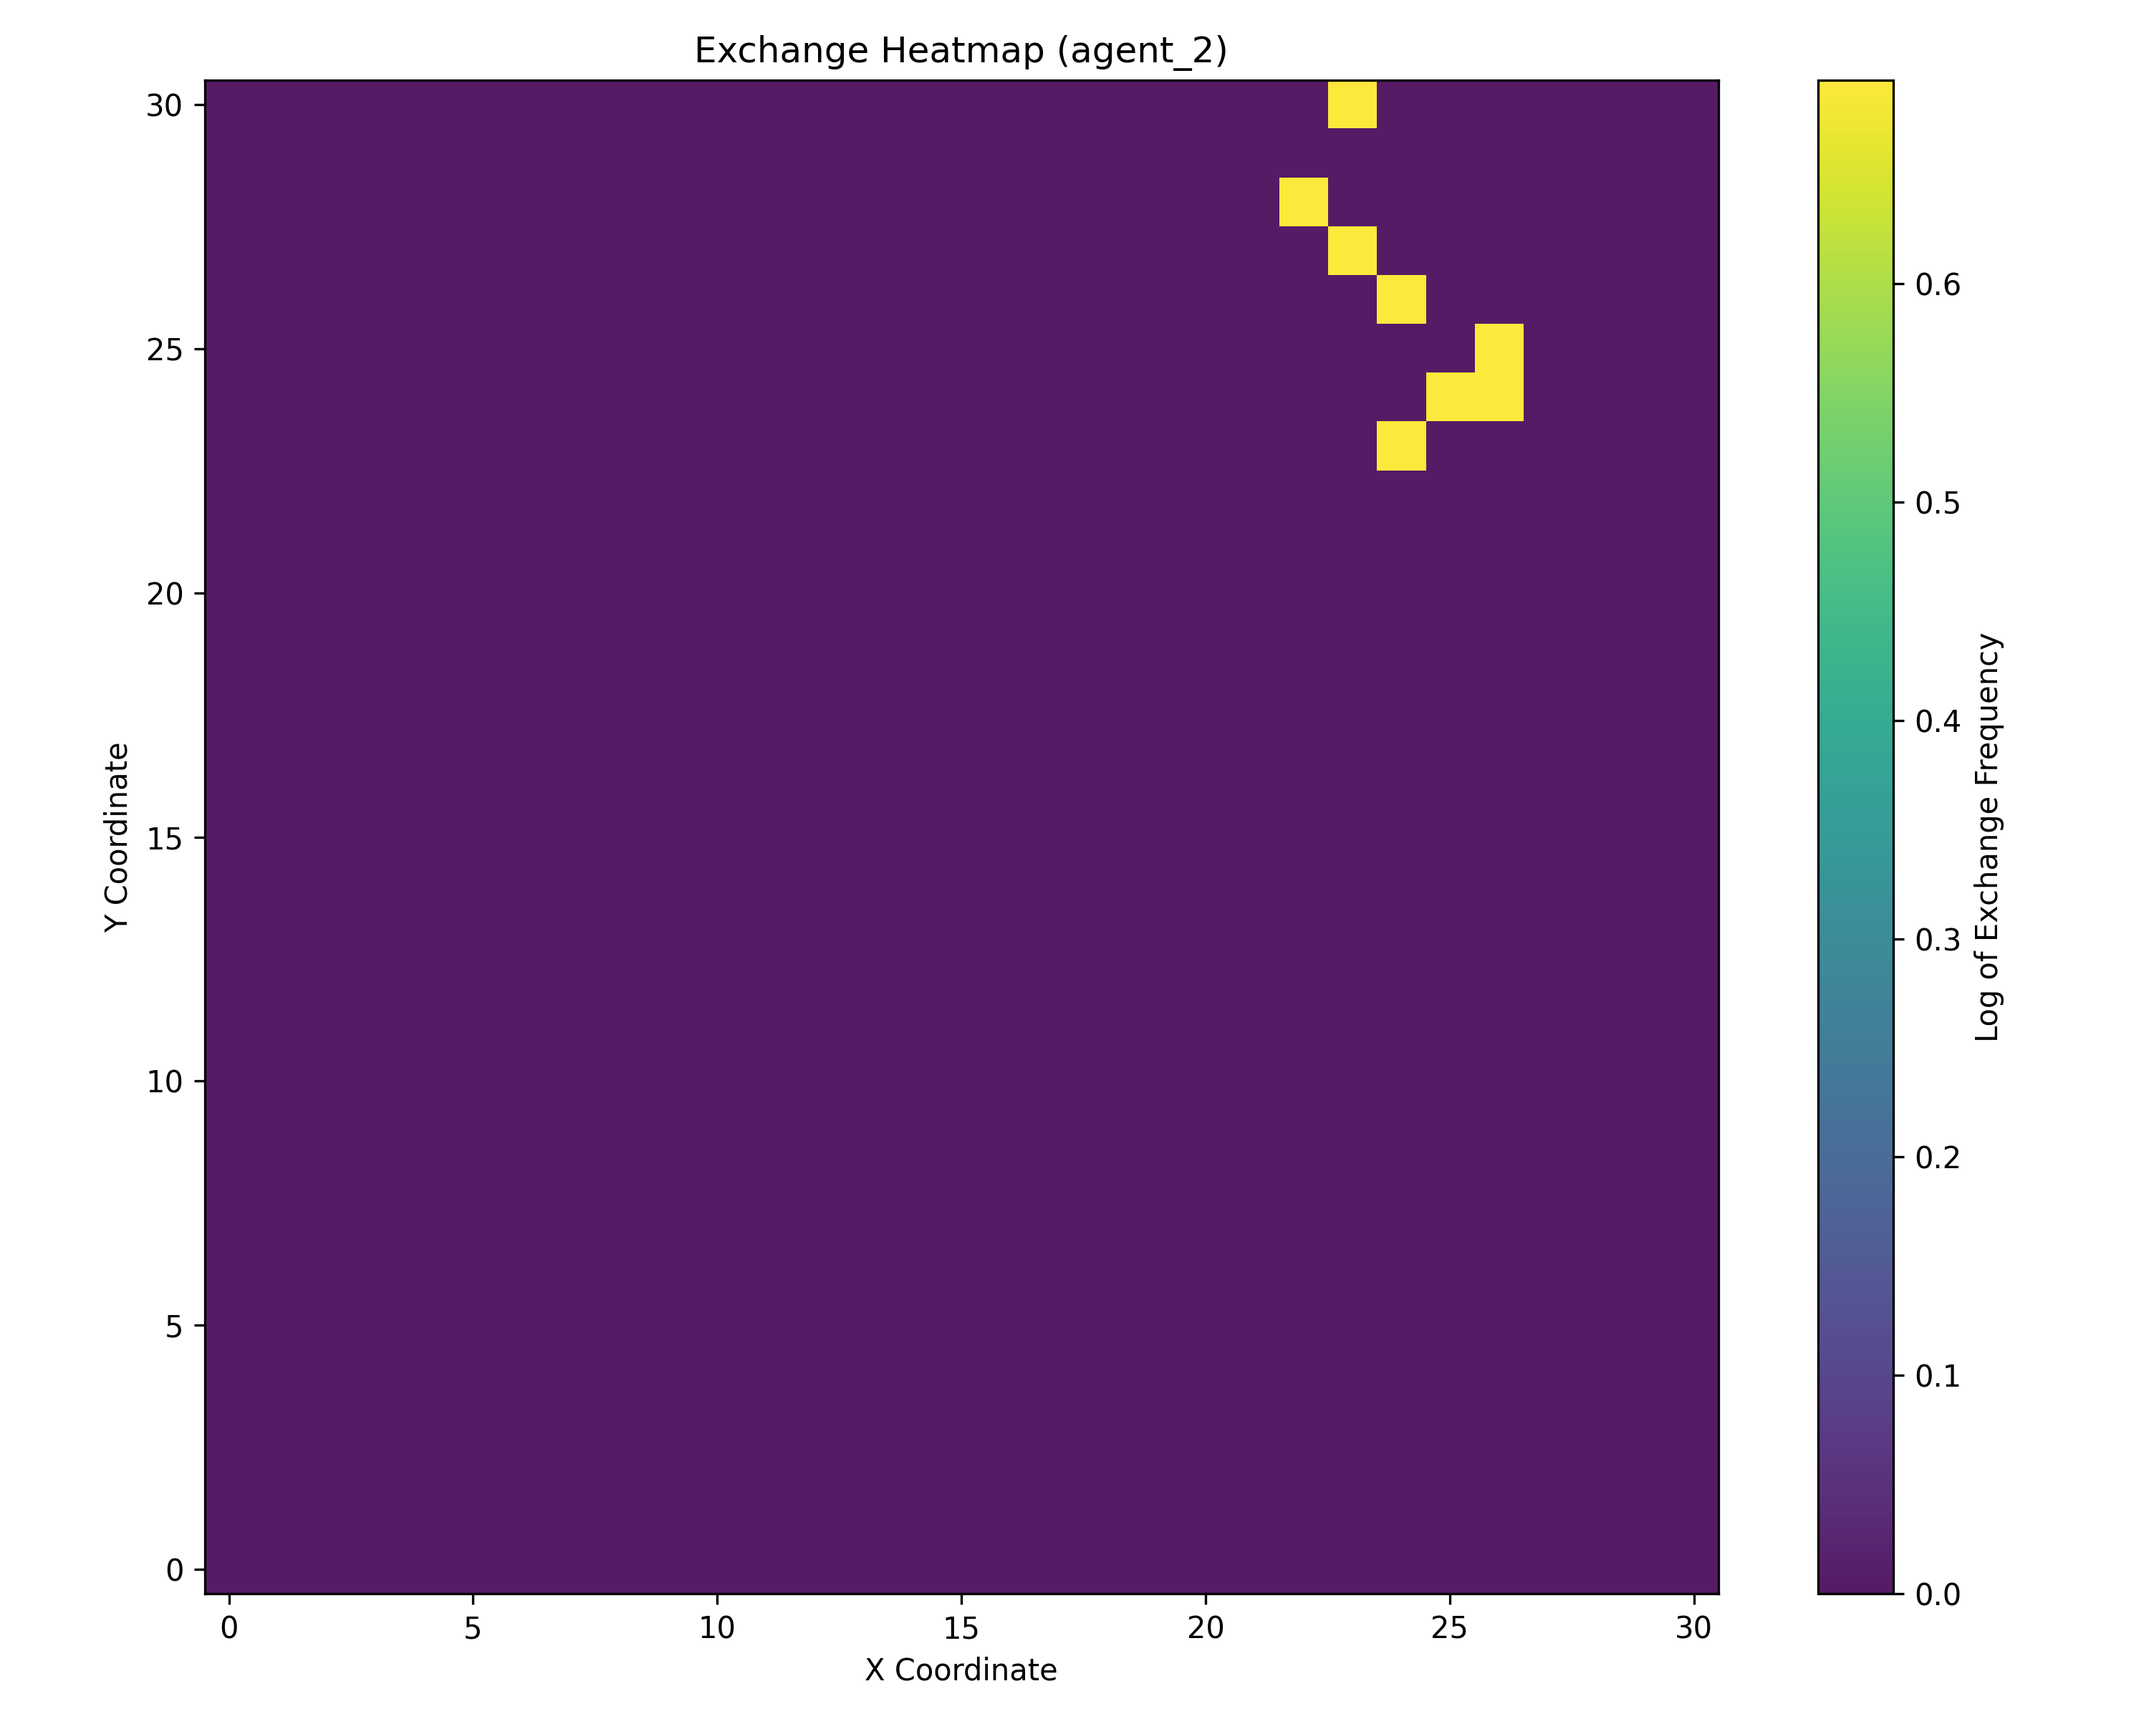
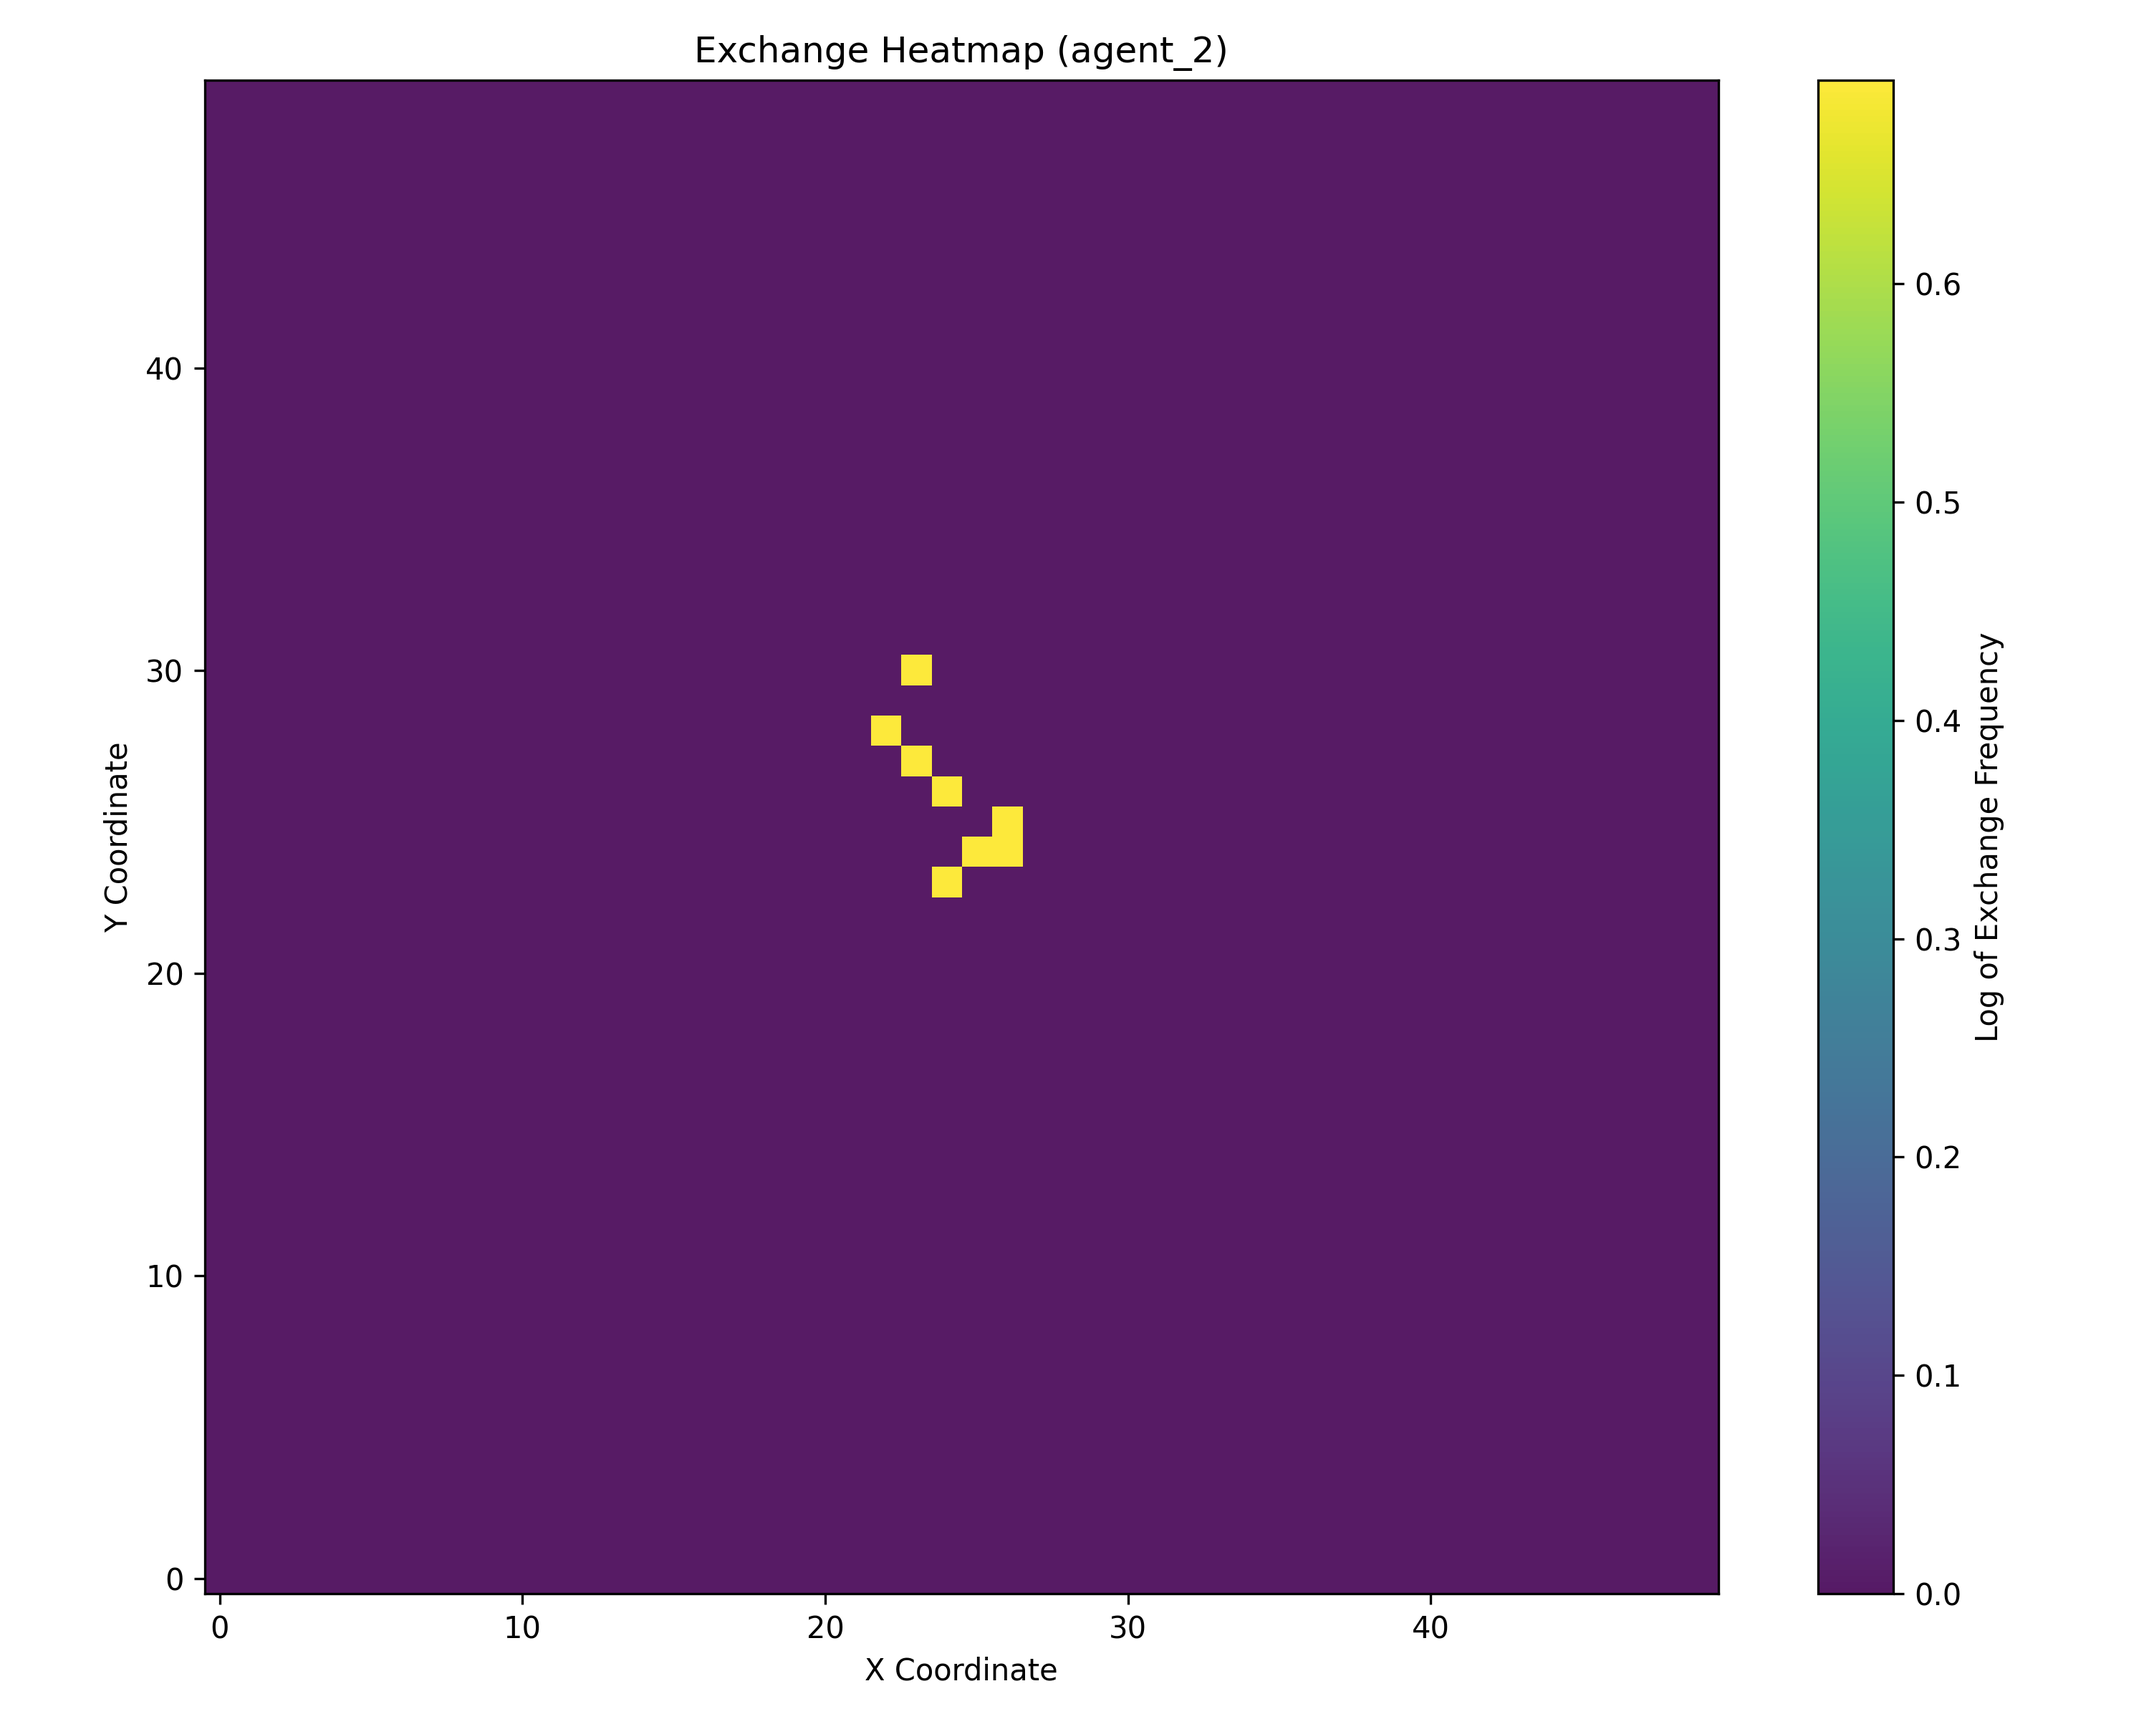
System working: heatmaps display full env size

diff --git a/Swarm_Petting_Zoo/MultiAgentForaging/Env/run_analysis.py b/Swarm_Petting_Zoo/MultiAgentForaging/Env/run_analysis.py
@@ -1,0 +1,62 @@
+import pandas as pd
+import numpy as np
+import matplotlib.pyplot as plt
+from foraging_config import ForagingConfig 
+# Import or define your heatmap functions
+from data_analysis import (
+    generate_agent_activity_heatmap,
+    generate_exchange_heatmap_for_agent,
+    overlay_exchanges_on_heatmap,
+)
+
+def run_analysis(log_filepath):
+    """
+    Run analysis on pre-existing simulation logs to generate various heatmaps.
+
+    Parameters:
+    - log_filepath (str): Path to the simulation log file (CSV).
+    """
+    # Load the data
+    simulation_logs = pd.read_csv(log_filepath)
+    print("Simulation logs loaded successfully.")
+
+    # Separate rows by type
+    agents = simulation_logs[simulation_logs['row_type'] == "agent"]
+    exchanges = simulation_logs[simulation_logs['row_type'] == "exchange"]
+
+    # Parse agent locations
+    agents['x'], agents['y'] = zip(*agents['location']
+        .str.strip("[]")
+        .str.split()
+        .map(lambda xy: (int(xy[0]), int(xy[1])) if len(xy) == 2 else (None, None))
+    )
+    
+    # Ensure exchange coordinates are integers
+    exchanges['x'] = exchanges['x'].astype(float).astype(int)
+    exchanges['y'] = exchanges['y'].astype(float).astype(int)
+    
+    # Define the environment grid size
+    grid_size = (ForagingConfig.size)
+
+    # Generate agent activity heatmap
+    print("Generating agent activity heatmap...")
+    #generate_agent_activity_heatmap(agents, filename="agent_activity_heatmap.png", grid_size=grid_size)
+
+    # Generate global exchange heatmap
+    print("Generating global exchange heatmap...")
+    generate_exchange_heatmap_for_agent(exchange_data=exchanges, filename="global_exchange_heatmap.png",grid_size=grid_size)
+
+    # Generate heatmaps for each agent's exchanges
+    print("Generating exchange heatmaps for each agent...")
+    for agent in exchanges['agent_id'].dropna().unique():  # Filter out rows with missing 'agent_id'
+        filename = f"{agent}_exchange_heatmap.png"
+        generate_exchange_heatmap_for_agent(exchange_data=exchanges, agent_id=agent, filename=filename, grid_size=grid_size)
+
+    print("Analysis complete!")
+
+if __name__ == "__main__":
+    # Path to the simulation log file
+    log_file = "simulation_logs.csv"  # Update this to the actual path of your log file
+    
+    # Run the analysis
+    run_analysis(log_file)

diff --git a/Swarm_Petting_Zoo/MultiAgentForaging/Env/data_analysis.py b/Swarm_Petting_Zoo/MultiAgentForaging/Env/data_analysis.py
@@ -3,16 +3,16 @@ import numpy as np
 import matplotlib.pyplot as plt
 import pandas as pd
 
-def generate_agent_activity_heatmap(log_data, grid_size=None, normalize=True, filename=None, agent_id=None):
+def generate_agent_activity_heatmap(log_data, normalize=True, filename=None, agent_id=None, grid_size=None):
     """
     Generate and plot a heatmap of agent activity from simulation logs.
 
     Parameters:
     - log_data (pd.DataFrame): The simulation data containing 'x' and 'y' columns for agent locations.
-    - grid_size (int): The size of the grid. If None, it will be determined from the data.
     - normalize (bool): If True, normalize the heatmap using a logarithmic scale.
     - filename (str): If provided, saves the heatmap as an image file.
     - agent_id (str): If provided, filters the log data for the specified agent.
+    - grid_size (int): The size of the grid. If None, it will be determined from the data.
     """
     # Filter for a specific agent if agent_id is provided
     if agent_id:
@@ -144,7 +144,7 @@ def overlay_exchanges_on_heatmap(agent_data, exchange_data, agent_id=None, filen
     # Show the plot
     plt.show()
     
-def generate_exchange_heatmap_for_agent(exchange_data, agent_id=None, filename=None):
+def generate_exchange_heatmap_for_agent(exchange_data, agent_id=None, filename=None, grid_size=None):
     """
     Generate a heatmap of only the exchange locations for a specific agent or all agents.
 
@@ -157,9 +157,11 @@ def generate_exchange_heatmap_for_agent(exchange_data, agent_id=None, filename=N
     if agent_id:
         exchange_data = exchange_data[exchange_data['agent_id'] == agent_id]
 
+
+    # Unpack grid size
+    heatmap_rows, heatmap_cols = (grid_size , grid_size)
+    exchange_heatmap = np.zeros((heatmap_rows, heatmap_cols))
     # Create exchange heatmap
-    grid_size = max(exchange_data['x'].max(), exchange_data['y'].max()) + 1
-    exchange_heatmap = np.zeros((grid_size, grid_size))
     for _, row in exchange_data.iterrows():
         exchange_heatmap[int(row['y']), int(row['x'])] += 1  # Note (y, x) indexing for heatmaps
 

diff --git a/Swarm_Petting_Zoo/MultiAgentForaging/Env/test_with_markets.py b/Swarm_Petting_Zoo/MultiAgentForaging/Env/test_with_markets.py
@@ -38,45 +38,8 @@ def test_markets(step_limit=5):
         env.render()
         #time.sleep(1)
     env.save_logs("simulation_logs.csv")
-    #env.log_results("results.txt")
     env.generate_summary_table(filename="agent_summary.xlsx", file_format="excel")
     env.close()
-    
-    # Load data
-    simulation_logs = pd.read_csv("simulation_logs.csv")
-    
-    # Separate rows by type
-    agents = simulation_logs[simulation_logs['row_type'] == "agent"]
-    exchanges = simulation_logs[simulation_logs['row_type'] == "exchange"]
-
-    # Separate rows by type
-    # Parse agent locations
-    agents['x'], agents['y'] = zip(*agents['location']
-        .str.strip("[]")
-        .str.split()
-        .map(lambda xy: (int(xy[0]), int(xy[1])) if len(xy) == 2 else (None, None))
-    )
-    # Ensure exchange coordinates are integers
-    exchanges['x'] = exchanges['x'].astype(float).astype(int)
-    exchanges['y'] = exchanges['y'].astype(float).astype(int)
-
-    # Generate heatmaps
-    generate_agent_activity_heatmap(agents, filename="agent_activity_heatmap.png")
-    #generate_exchange_heatmap(exchanges, filename="exchange_density_heatmap.png")
-    # Generate heatmap for all exchanges
-    generate_exchange_heatmap_for_agent(exchange_data=exchanges, filename="global_exchange_heatmap.png")
-
-
-    # # Overlay exchanges on individual agent heatmaps
-    # for agent in agents['agent_id'].unique():
-    #     filename = f"{agent}_overlay_heatmap.png"
-    #     overlay_exchanges_on_heatmap(agents, exchanges, agent_id=agent, filename=filename)
-    
-    # Generate heatmaps for each agent's exchanges
-    for agent in exchanges['agent_id'].dropna().unique():  # Filter out rows with missing 'agent_id'
-        filename = f"{agent}_exchange_heatmap.png"
-        generate_exchange_heatmap_for_agent(exchange_data=exchanges, agent_id=agent, filename=filename)
-
 
 
 

diff --git a/Swarm_Petting_Zoo/MultiAgentForaging/Env/test.py b/Swarm_Petting_Zoo/MultiAgentForaging/Env/test.py
@@ -1,0 +1,39 @@
+def generate_exchange_heatmap_for_agent(exchange_data, agent_id=None, filename=None, grid_size=(50, 50)):
+    """
+    Generate a heatmap of only the exchange locations for a specific agent or all agents.
+
+    Parameters:
+    - exchange_data (pd.DataFrame): DataFrame containing exchange logs with 'x', 'y', and 'agent_id'.
+    - agent_id (str): If provided, filters exchange data for the specified agent.
+    - filename (str): If provided, saves the heatmap as an image file.
+    - grid_size (tuple): The size of the environment as (rows, cols).
+    """
+    # Filter for the specified agent
+    if agent_id:
+        exchange_data = exchange_data[exchange_data['agent_id'] == agent_id]
+
+    # Create exchange heatmap with fixed grid size
+    heatmap_rows, heatmap_cols = grid_size
+    exchange_heatmap = np.zeros((heatmap_rows, heatmap_cols))
+    for _, row in exchange_data.iterrows():
+        exchange_heatmap[int(row['y']), int(row['x'])] += 1  # Note (y, x) indexing for heatmaps
+
+    # Normalize the heatmap
+    exchange_heatmap = np.log1p(exchange_heatmap)  # Log scale for better visualization
+
+    # Plot the exchange heatmap
+    plt.figure(figsize=(10, 8))
+    plt.imshow(exchange_heatmap, cmap="viridis", origin="lower", extent=[0, heatmap_cols, 0, heatmap_rows], alpha=0.9)
+    plt.colorbar(label="Log of Exchange Frequency")
+    plt.title(f"Exchange Heatmap ({'All Agents' if not agent_id else agent_id})")
+    plt.xlabel("X Coordinate")
+    plt.ylabel("Y Coordinate")
+    plt.tight_layout()
+
+    # Save the plot if a filename is provided
+    if filename:
+        plt.savefig(filename, dpi=300)
+        print(f"Exchange heatmap saved as {filename}")
+
+    # Show the plot
+    plt.show()

diff --git a/Swarm_Petting_Zoo/MultiAgentForaging/Env/tempCodeRunnerFile.py b/Swarm_Petting_Zoo/MultiAgentForaging/Env/tempCodeRunnerFile.py
@@ -1,14 +1,4 @@
-def return_to_base(self, agent_location, base_location):
-        """Generate an action to return the agent to the base."""
-        if np.array_equal(agent_location, base_location):
-            return None  # No action needed, agent is already at the base
-        direction_to_base = self.calculate_direction(agent_location, base_location)
-        action = self.gaussian_sample(direction_to_base, self.std_dev_base_return)
-        
-        # Handle the case where the agent might choose not to move
-        if action is None:
-            if self.debug:
-                print(f"Agent at {agent_location} chose not to move towards base at {base_location}.")
-            return None
-        
-        return action
+    # Initialize the environment with the auction subclass
+    env = ForagingEnvironmentWithMarkets(config=ForagingConfig())
+    env.reset(seed=42)
+    env_size = env.size
